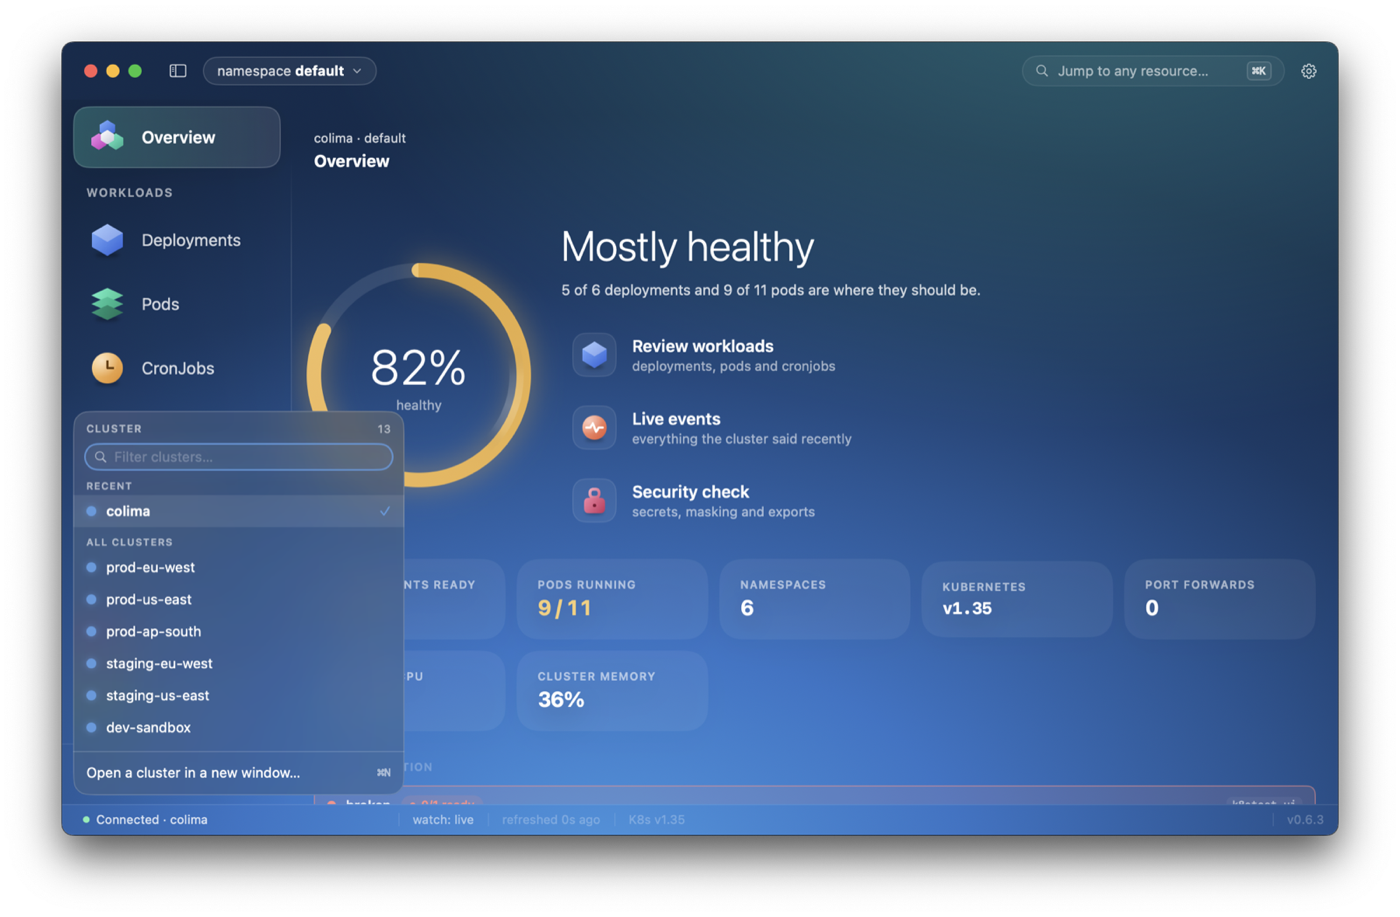
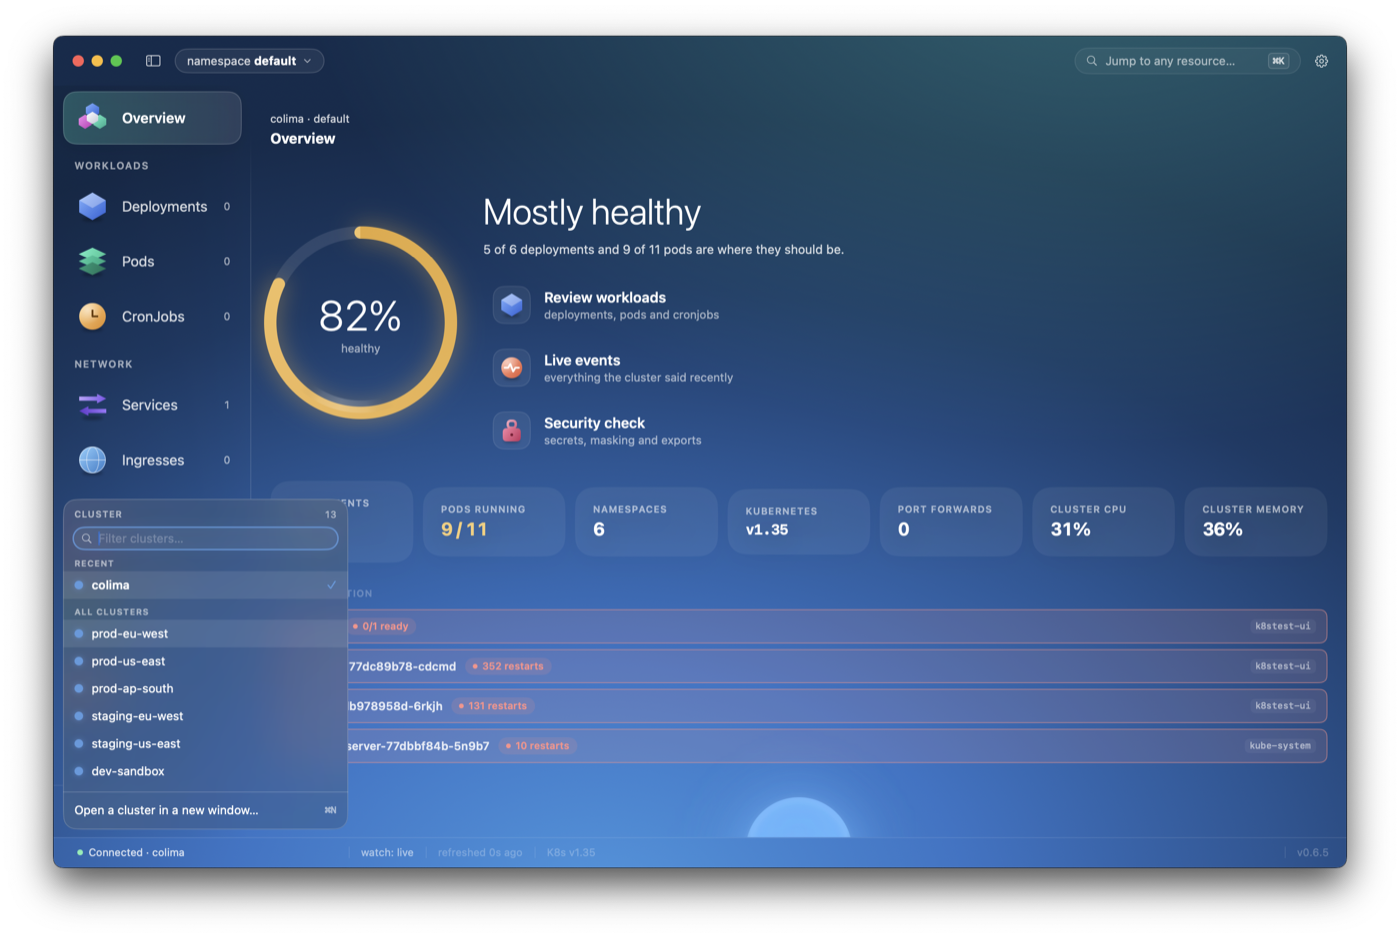
Pin the scan orb, tint it, and refresh every screenshot
The orb scrolled off the bottom of the Overview where the design has it
sticky, and it was the last thing painted in the old fixed magenta, which on
an ocean canvas read as a pink dome rising out of the status bar. It floats
above the content now, at the prototype's 112pt with its three-layer glow,
in the cluster's own accent.

Screenshots retaken at a fixed window size with the rail expanded, so the set
is consistent and reproducible rather than whatever size the window was last
left at — and they now show the icon, the counts, the grid lists and the YAML
editor.

Claude-Session: https://claude.ai/code/session_01Gi9hZgmNkYbrJHoWJvKQG7

diff --git a/macos/Sources/K8Secret/Views/OverviewView.swift b/macos/Sources/K8Secret/Views/OverviewView.swift
@@ -165,18 +165,20 @@ struct OverviewView: View {
                     }
                 }
 
-                // The prototype's scan orb: a glowing re-scan control.
-                HStack {
-                    Spacer()
-                    ScanOrb {
-                        Task { await state.loadOverview() }
-                    }
-                    Spacer()
-                }
-                .padding(.top, 10)
+                // Room for the orb, which floats over this rather than
+                // scrolling with it.
+                Color.clear.frame(height: 132)
             }
             .padding(20)
             .frame(maxWidth: .infinity, alignment: .leading)
+        }
+        // The prototype's `position: sticky; bottom: 26px` — a re-scan control
+        // that stays put while the overview scrolls under it.
+        .overlay(alignment: .bottom) {
+            ScanOrb {
+                Task { await state.loadOverview() }
+            }
+            .padding(.bottom, 26)
         }
         .navigationTitle("Overview")
         .task { await state.loadOverview() }
@@ -383,33 +385,39 @@ struct HeroActionButton: View {
 struct ScanOrb: View {
     let action: () -> Void
     @State private var pulsing = false
-    @State private var spinning = false
+    @State private var pressed = false
     @Environment(\.accessibilityReduceMotion) private var reduceMotion
+    @Environment(\.clusterAccent) private var accent
 
     var body: some View {
         Button {
             action()
-            guard !reduceMotion else { return }
-            withAnimation(.easeInOut(duration: 0.7)) { spinning.toggle() }
         } label: {
             Text("Scan")
-                .font(.system(size: 16, weight: .bold))
+                .font(.system(size: 16.5, weight: .bold))
                 .foregroundStyle(.white)
-                .frame(width: 104, height: 104)
+                .frame(width: 112, height: 112)
+                // The prototype's orb: a light source at 50% 32%, deepening to
+                // the cluster's own accent rather than one fixed magenta.
                 .background(
                     Circle().fill(
-                        RadialGradient(colors: [Color(hex: 0xE24BE0), Color(hex: 0x8A2BB8)],
-                                       center: UnitPoint(x: 0.35, y: 0.3),
-                                       startRadius: 6, endRadius: 90))
+                        RadialGradient(
+                            colors: [accent.opacity(0.95), accent, accent.blended(with: .black, 0.45)],
+                            center: UnitPoint(x: 0.5, y: 0.32),
+                            startRadius: 4, endRadius: 96))
                 )
-                .overlay(Circle().strokeBorder(.white.opacity(0.25), lineWidth: 1))
-                .shadow(color: Color(hex: 0xD935D9).opacity(pulsing ? 0.55 : 0.35),
-                        radius: pulsing ? 34 : 22)
-                .scaleEffect(pulsing ? 1.03 : 1)
-                .rotation3DEffect(.degrees(spinning ? 360 : 0), axis: (x: 0, y: 1, z: 0))
+                // Three layers, as specified: a wide glow, a soft halo instead
+                // of a hairline ring, and a drop shadow beneath.
+                .overlay(Circle().strokeBorder(.white.opacity(0.10), lineWidth: 6).blur(radius: 3))
+                .shadow(color: accent.opacity(pulsing ? 0.50 : 0.40), radius: pulsing ? 39 : 30)
+                .shadow(color: accent.opacity(0.55), radius: 22, y: 16)
+                .scaleEffect(pressed ? 0.96 : 1)
                 .contentShape(Circle())
         }
         .buttonStyle(.plain)
+        .onLongPressGesture(minimumDuration: 0, pressing: { down in
+            withAnimation(.spring(response: 0.18, dampingFraction: 0.7)) { pressed = down }
+        }, perform: {})
         .onAppear {
             guard !reduceMotion else { return }
             withAnimation(.easeInOut(duration: 3.4).repeatForever(autoreverses: true)) {

diff --git a/macos/Sources/K8Secret/Views/ContentView.swift b/macos/Sources/K8Secret/Views/ContentView.swift
@@ -1391,6 +1391,17 @@ struct WindowConfigurator: NSViewRepresentable {
             // window's own background removes it — the content is still masked
             // to the window's rounded corners — and leaves the drop shadow to
             // do the separating, which is what it is for.
+            // Debug-only: a fixed window size, so a screenshot set is
+            // reproducible rather than whatever size the window was left at.
+            if let size = ProcessInfo.processInfo.environment["K8SECRET_UITEST_SIZE"] {
+                let parts = size.split(separator: "x").compactMap { Double($0) }
+                if parts.count == 2, let screen = w.screen ?? NSScreen.main {
+                    let frame = NSRect(x: screen.frame.midX - parts[0] / 2,
+                                       y: screen.frame.midY - parts[1] / 2,
+                                       width: parts[0], height: parts[1])
+                    w.setFrame(frame, display: true)
+                }
+            }
             w.isOpaque = false
             w.backgroundColor = .clear
             w.hasShadow = true

diff --git a/macos/Sources/K8Secret/Views/Theme.swift b/macos/Sources/K8Secret/Views/Theme.swift
@@ -568,3 +568,17 @@ struct IconButtonStyle: ButtonStyle {
             .animation(Motion.stateChange, value: hovering)
     }
 }
+
+extension Color {
+    /// Mix toward another colour — for deepening an accent into the shadowed
+    /// side of a sphere without inventing a second hue for every tint.
+    func blended(with other: Color, _ amount: Double) -> Color {
+        let a = NSColor(self).usingColorSpace(.sRGB) ?? .clear
+        let b = NSColor(other).usingColorSpace(.sRGB) ?? .clear
+        let t = min(max(amount, 0), 1)
+        return Color(
+            red: Double(a.redComponent) * (1 - t) + Double(b.redComponent) * t,
+            green: Double(a.greenComponent) * (1 - t) + Double(b.greenComponent) * t,
+            blue: Double(a.blueComponent) * (1 - t) + Double(b.blueComponent) * t)
+    }
+}

diff --git a/README.md b/README.md
@@ -42,6 +42,10 @@ Every resource shows what the API server actually returns, with `managedFields` 
 
 ![YAML](docs/screenshots/yaml.png)
 
+A secret's manifest is editable in place — applied as one write, on the version you opened, and honest about showing values in full while you do.
+
+![Editing a manifest](docs/screenshots/yaml-editor.png)
+
 ### As many clusters as you keep
 
 ⌘N opens a chooser rather than a second window onto the same place. Open ten if you like — each window has its own cluster, namespace, scope and selection. Both pickers filter by name, count what they list, and put the clusters you actually use on top.
